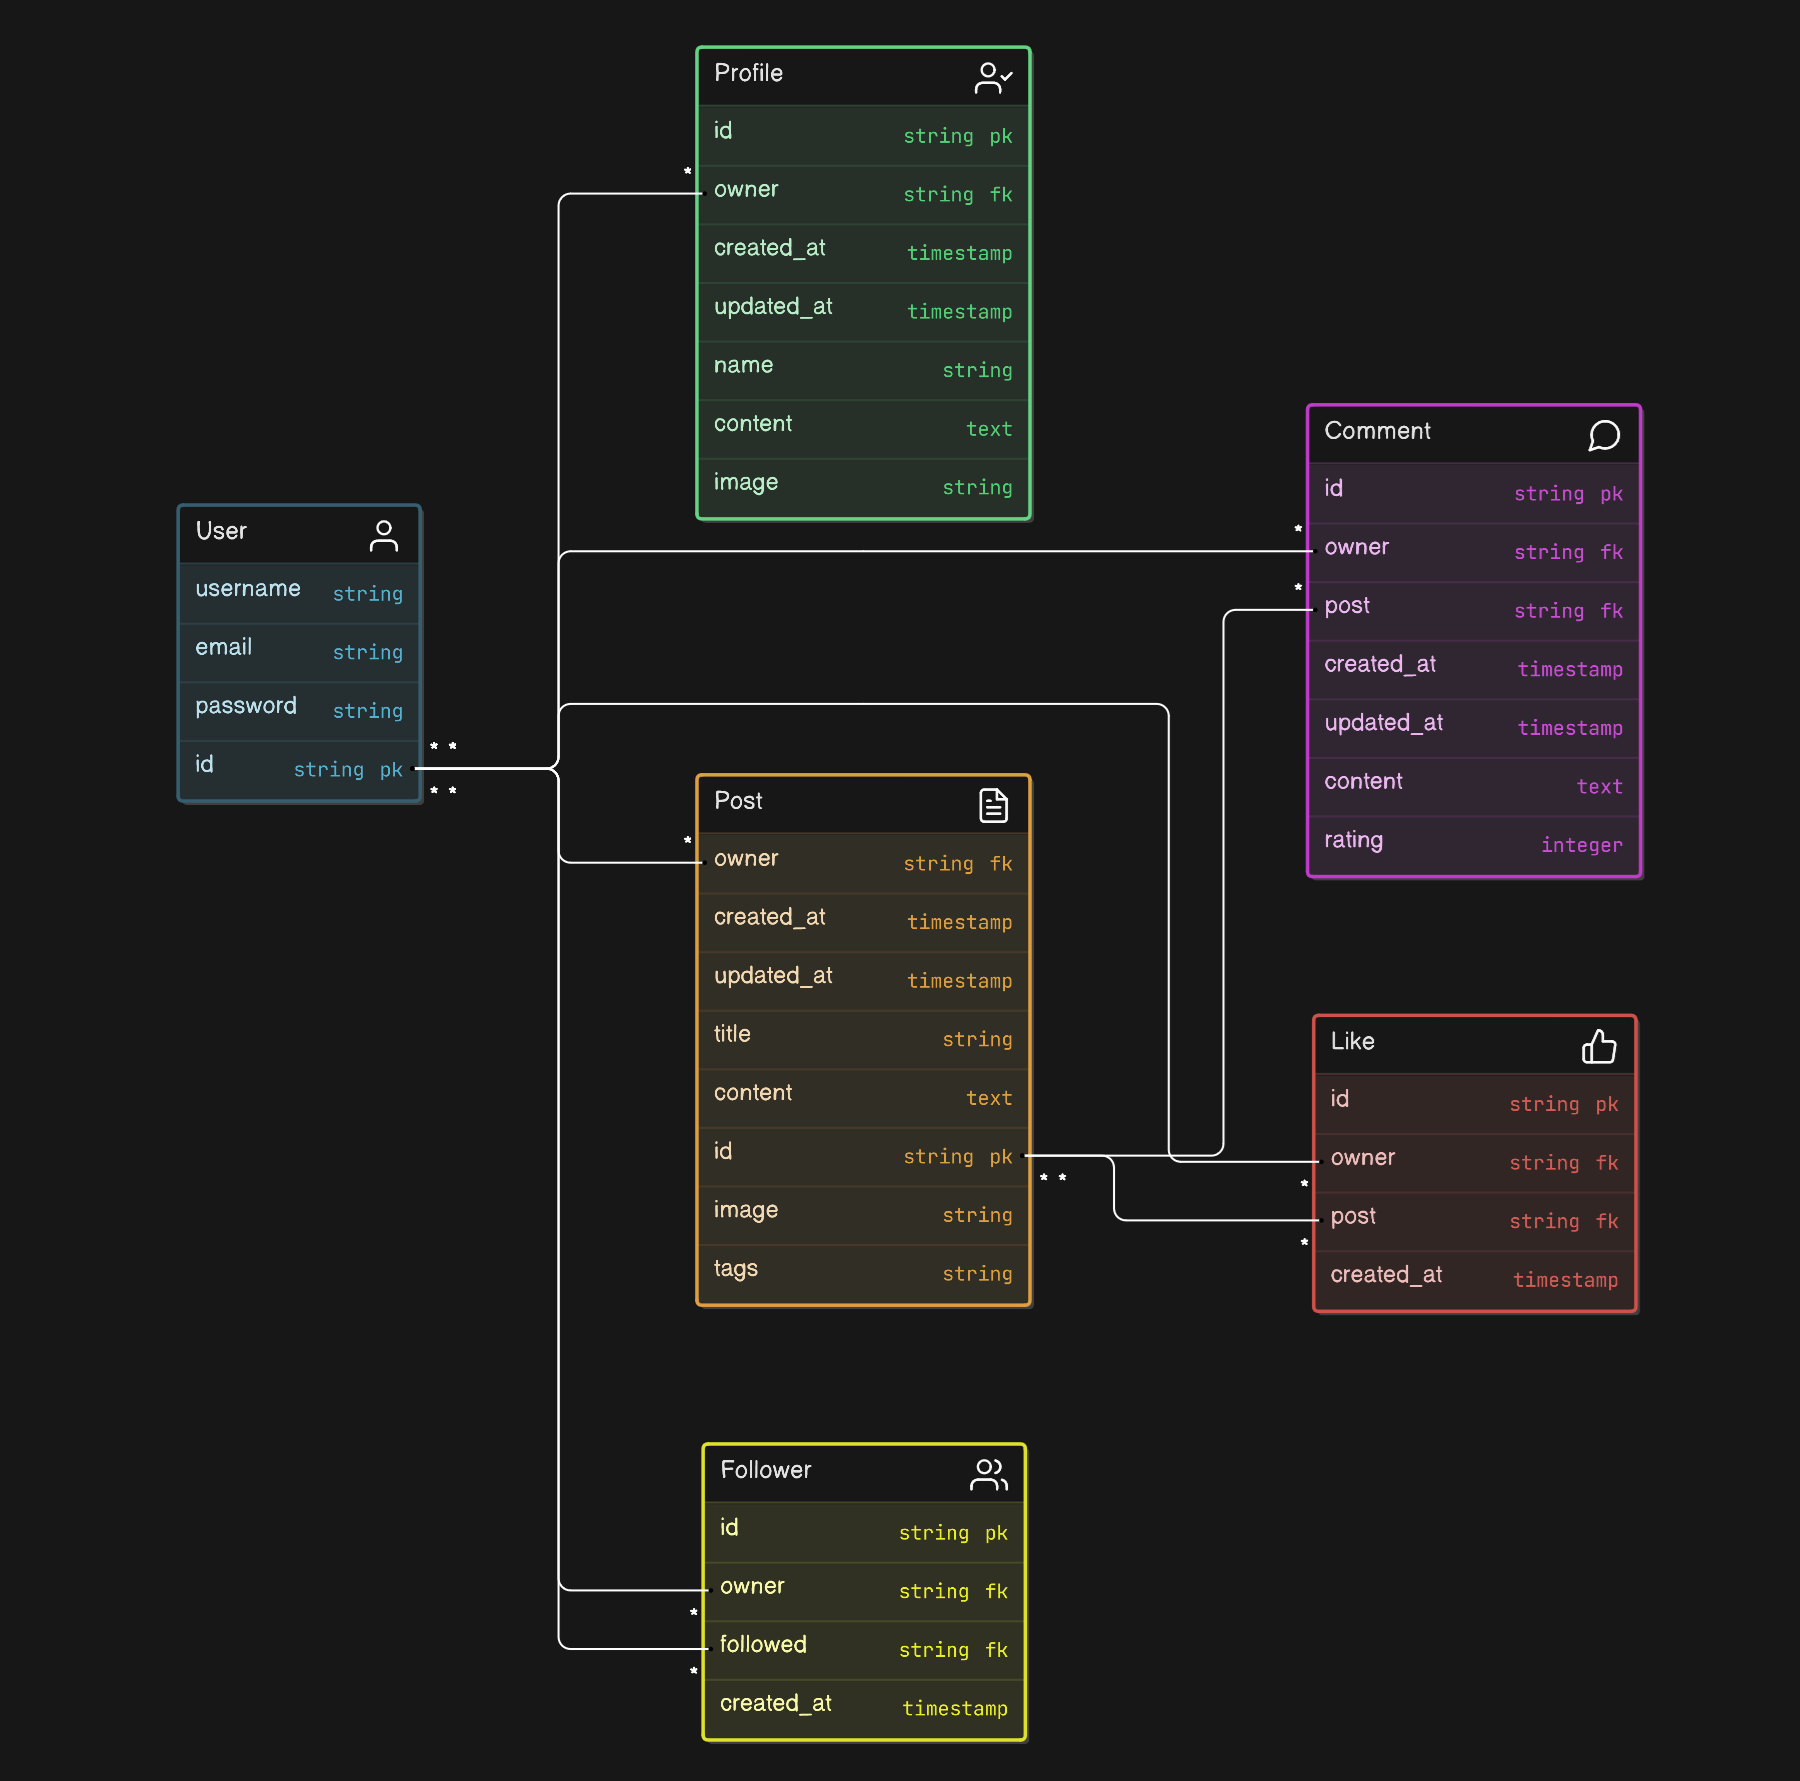
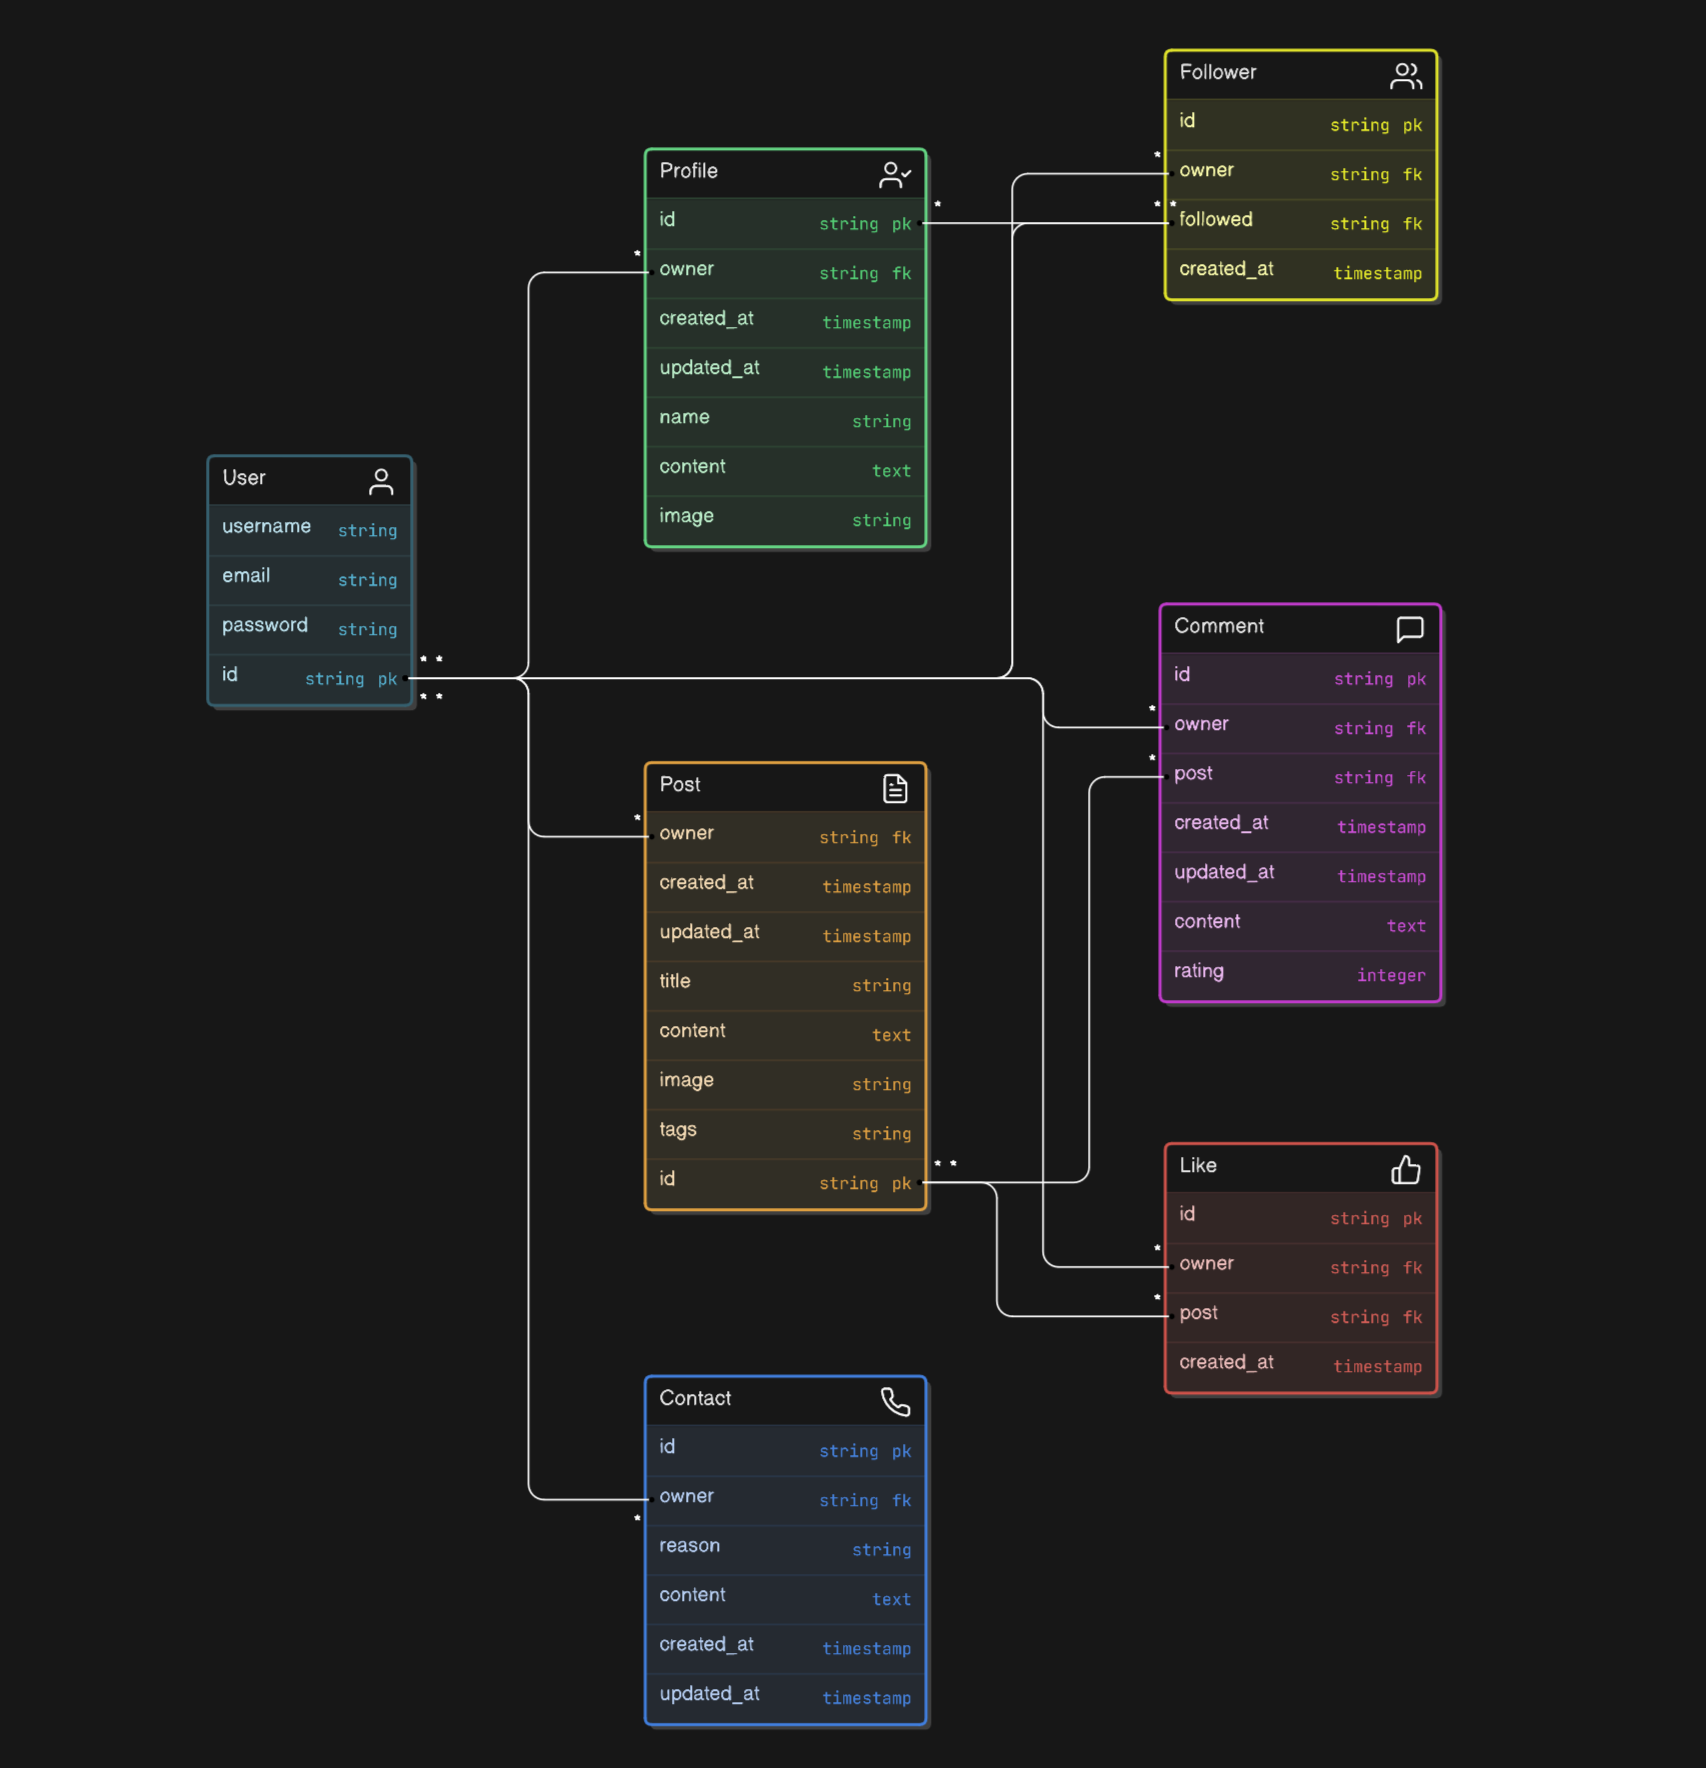
Add Contacts App to README

diff --git a/README.md b/README.md
@@ -105,22 +105,24 @@ The table below provides an overview of the available endpoints, the supported H
 
 | Endpoint                                | Allowed Methods           | Authentication/Authorization      | Description                                |
 |-----------------------------------------|---------------------------|-----------------------------------|--------------------------------------------|
-| `/`                                     | GET                       | No authentication required        | Root route or home page                   |
-| `/admin/`                               | GET, POST, etc.          | Admin authentication required     | Admin site                                 |
-| `/api-auth/`                           | GET, POST, etc.          | No authentication required        | REST framework authentication               |
-| `/dj-rest-auth/logout/`                | POST                      | Authentication required           | User logout                                |
-| `/dj-rest-auth/`                       | Various                   | No authentication required        | DJ Rest Auth endpoints                     |
-| `/dj-rest-auth/registration/`          | POST                      | No authentication required        | User registration endpoint                 |
-| `/profiles/`                            | GET, POST                 | Authentication required           | List all profiles or create a profile     |
-| `/profiles/<int:pk>/`                  | GET, PATCH, DELETE        | Authentication required           | Retrieve, update, or delete a profile     |
-| `/comments/`                            | GET, POST                 | Authentication required           | List all comments or create a comment     |
-| `/comments/<int:pk>/`                  | GET, PATCH, DELETE        | Authentication required           | Retrieve, update, or delete a comment     |
-| `/posts/`                               | GET, POST                 | Authentication required           | List all posts or create a post           |
-| `/posts/<int:pk>/`                      | GET, PATCH, DELETE        | Authentication required           | Retrieve, update, or delete a post        |
+| `/`                                     | GET                       | No authentication required        | Root route or home page                    |
+| `/admin/`                               | GET, POST, etc.           | Admin authentication required     | Admin site                                 |
+| `/api-auth/`                            | GET, POST, etc.           | No authentication required        | REST framework authentication              |
+| `/dj-rest-auth/logout/`                 | POST                      | Authentication required           | User logout                                |
+| `/dj-rest-auth/`                        | Various                   | No authentication required        | DJ Rest Auth endpoints                     |
+| `/dj-rest-auth/registration/`           | POST                      | No authentication required        | User registration endpoint                 |
+| `/profiles/`                            | GET, POST                 | Authentication required           | List all profiles or create a profile      |
+| `/profiles/<int:pk>/`                   | GET, PATCH, DELETE        | Authentication required           | Retrieve, update, or delete a profile      |
+| `/comments/`                            | GET, POST                 | Authentication required           | List all comments or create a comment      |
+| `/comments/<int:pk>/`                   | GET, PATCH, DELETE        | Authentication required           | Retrieve, update, or delete a comment      |
+| `/posts/`                               | GET, POST                 | Authentication required           | List all posts or create a post            |
+| `/posts/<int:pk>/`                      | GET, PATCH, DELETE        | Authentication required           | Retrieve, update, or delete a post         |
 | `/followers/`                           | GET, POST                 | Authentication required           | List all followers or add a follower       |
-| `/followers/<int:pk>/`                  | DELETE                    | Authentication required           | Unfollow a user                           |
-| `/likes/`                               | GET, POST                 | Authentication required           | List all likes or add a like              |
-| `/likes/<int:pk>/`                      | DELETE                    | Authentication required           | Remove a like                             |
+| `/followers/<int:pk>/`                  | DELETE                    | Authentication required           | Unfollow a user                            |
+| `/likes/`                               | GET, POST                 | Authentication required           | List all likes or add a like               |
+| `/likes/<int:pk>/`                      | DELETE                    | Authentication required           | Remove a like                              |
+| `/contacts/`                            | GET, POST                 | Authentication required           | List all contacts or create a contact      |
+| `/contacts/<int:pk>/`                   | GET, PATCH, DELETE        | Authentication required           | Retrieve, update, or delete a contact      |
 
 
 ### Filtering and Search Options
@@ -134,18 +136,21 @@ To enhance the flexibility of the API, several endpoints provide options for fil
 
 To enhance the flexibility of the API, several endpoints provide options for filtering and sorting results. This allows the frontend to tailor its requests to specific needs, retrieving only the most relevant data. The table below outlines the filtering and search capabilities of the key endpoints:
 
-| Endpoint                                  | Filtering Options                                         | Search Options                                     |
+| Endpoint                                  | Filtering Options                                       | Search Options                                    |
 |-------------------------------------------|---------------------------------------------------------|---------------------------------------------------|
 | dj-rest-auth/login                        | None                                                    | None                                              |
 | dj-rest-auth/logout                       | None                                                    | None                                              |
 | dj-rest-auth/registration/                | None                                                    | None                                              |
-| profiles/                                 | Sort profiles by any field, defaults to sorting by ID   | Search by User                                           |
+| profiles/                                 | Sort profiles by any field, defaults to sorting by ID   | Search by User                                    |
 | profile/<int:id>/                         | None                                                    | None                                              |
 | profile/<int:id>/followers/               | Filter by follower's profile ID, sort by any field      | None                                              |
 | posts/                                    | Filter by author, date created, or tags                 | Search by title, content, or author name          |
 | posts/create/                             | None                                                    | None                                              |
 | posts/<int:id>/                           | None                                                    | None                                              |
 | posts/<int:id>/comments/                  | Sort comments by creation date, filter by author ID     | None                                              |
+| contacts/                                 | Filter by reason, created_at, user ID                   | Search by reason, content, username               |
+| contact/create/                           | None                                                    | None                                              |
+| contacts/<int:id>/                        | Sort comments by creation date, filter by author ID     | None                                              |
 
 
 ## Pagination
@@ -307,6 +312,10 @@ The code I wrote was also passed through validators/linters at the end to ensure
 | Python | posts serializers.py | [CI Python Linter](https://pep8ci.herokuapp.com/) | All errors resolved |
 | Python | posts urls.py  | [CI Python Linter](https://pep8ci.herokuapp.com/) | All errors resolved |
 | Python | posts views.py  | [CI Python Linter](https://pep8ci.herokuapp.com/) | All errors resolved |
+| Python | contacts models.py | [CI Python Linter](https://pep8ci.herokuapp.com/) | All errors resolved |
+| Python | contacts serializers.py | [CI Python Linter](https://pep8ci.herokuapp.com/) | All errors resolved |
+| Python | contacts urls.py  | [CI Python Linter](https://pep8ci.herokuapp.com/) | All errors resolved |
+| Python | contacts views.py  | [CI Python Linter](https://pep8ci.herokuapp.com/) | All errors resolved |
 
 
 ## 5. Bugs
